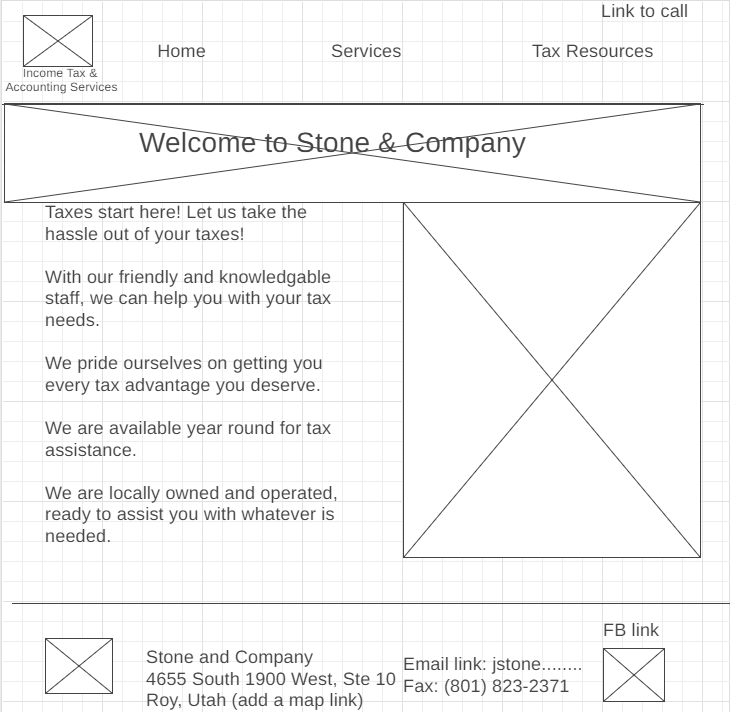
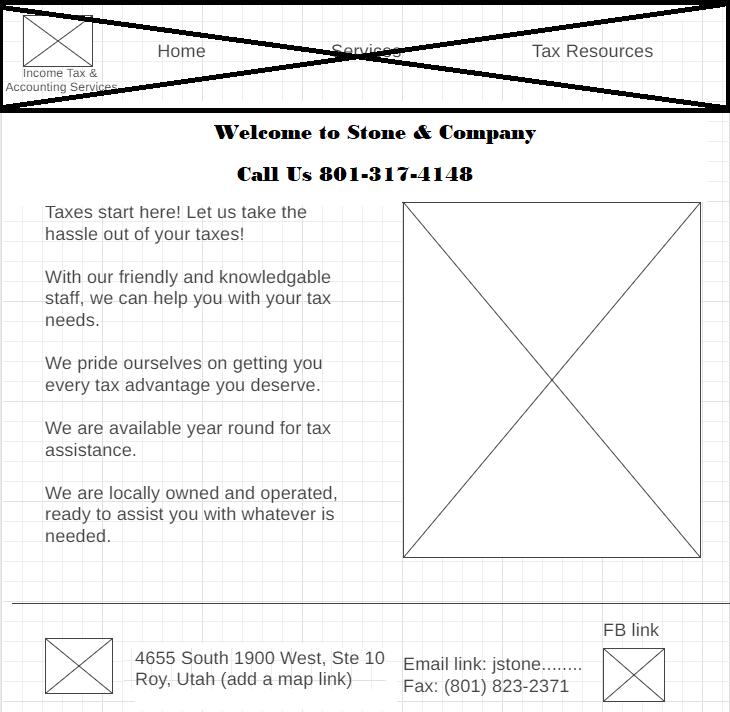
added wireframe to all 3 stone links

Changed region(s): [[0.0, 0.0, 1.0, 0.2781], [0.1808, 0.8961, 0.5425, 1.0], [0.0, 0.2781, 0.0301, 0.309]]

diff --git a/stoneandco/index.html b/stoneandco/index.html
@@ -55,18 +55,23 @@
             </div> 
         </main>
     </div>
+    <img src="images/homepagewireframe.png">
 </body>
 <footer>
     <a id="logo_link" href="index.html">
         <img class="logo" src="images/logo.png" alt="Stone & Company logo">
     </a>
+    <div class ="google-map">
+       <a href="https://goo.gl/maps/nxGecQ7jUEjkeEYM8">Stone & Company<br> 4655 S 1900 W Ste 10<br>
+        Roy, Utah </a>
+    </div>
     <p><a href="contactus.html">Contact Us</a></p>
+    <a href="mailto:admin@jstonecpa.com">Email us at admin@jstonecpa.com</a>
+    <p>Fax: 801-823-2371</p>
     <div class="social">
         <a href="https://www.facebook.com/profile.php?id=100057608132582" target="https://www.facebook.com/profile.php?id=100057608132582">
             <img src="images/facebook.png" alt="fb icon">
         </a>
     </div>
-    <a href="mailto:admin@jstonecpa.com">Email us at admin@jstonecpa.com</a>
-    <p>Fax: 801-823-2371</p>
 </footer>
 </html>

diff --git a/stoneandco/services.html b/stoneandco/services.html
@@ -56,6 +56,7 @@
     </main>
 </div>
 </body>
+<img src="images/servicespagewireframe.png">
 <footer>
 <div class="footer-grid"></div>
 <a id="logo_link" href="index.html">

diff --git a/stoneandco/taxresources.html b/stoneandco/taxresources.html
@@ -56,6 +56,7 @@
             </div>
         </main>
     </div>
+    <img src="images/taxresourceswireframe.png">
 </body>
 <footer>
     <div class="footer-grid"></div>

diff --git a/stoneandco/styles/style.css b/stoneandco/styles/style.css
@@ -114,6 +114,7 @@ footer a{
     color:#23297a;
     text-decoration:none;
     padding: 10px; 
+    text-align: left;
 }
 footer p{
     font-size:1em;
